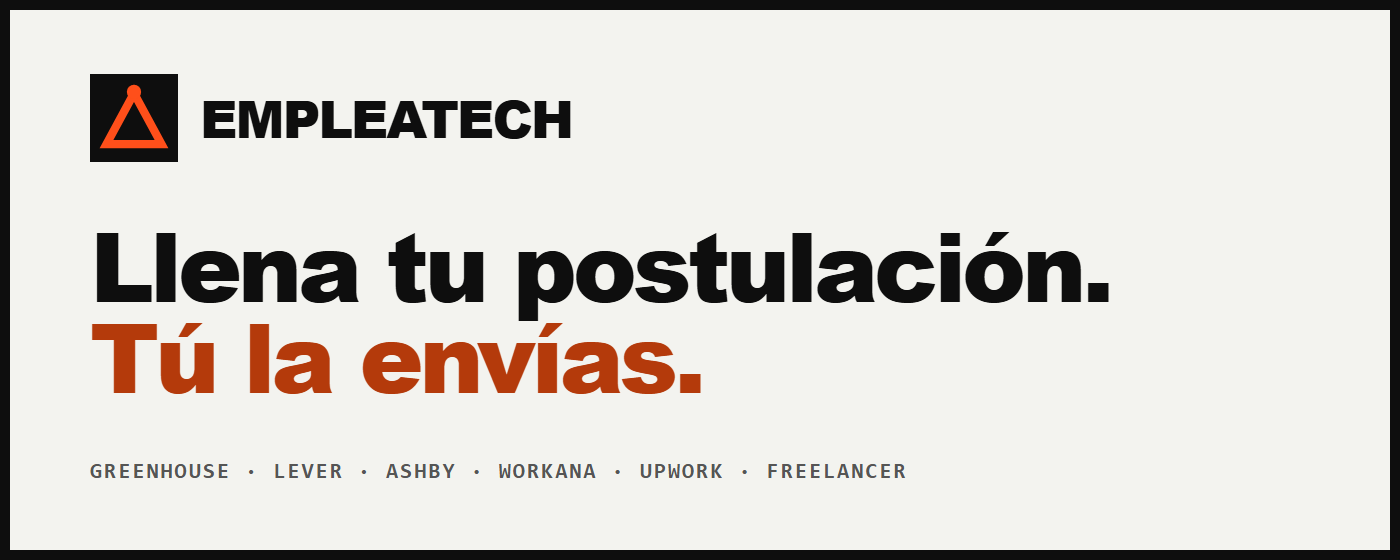
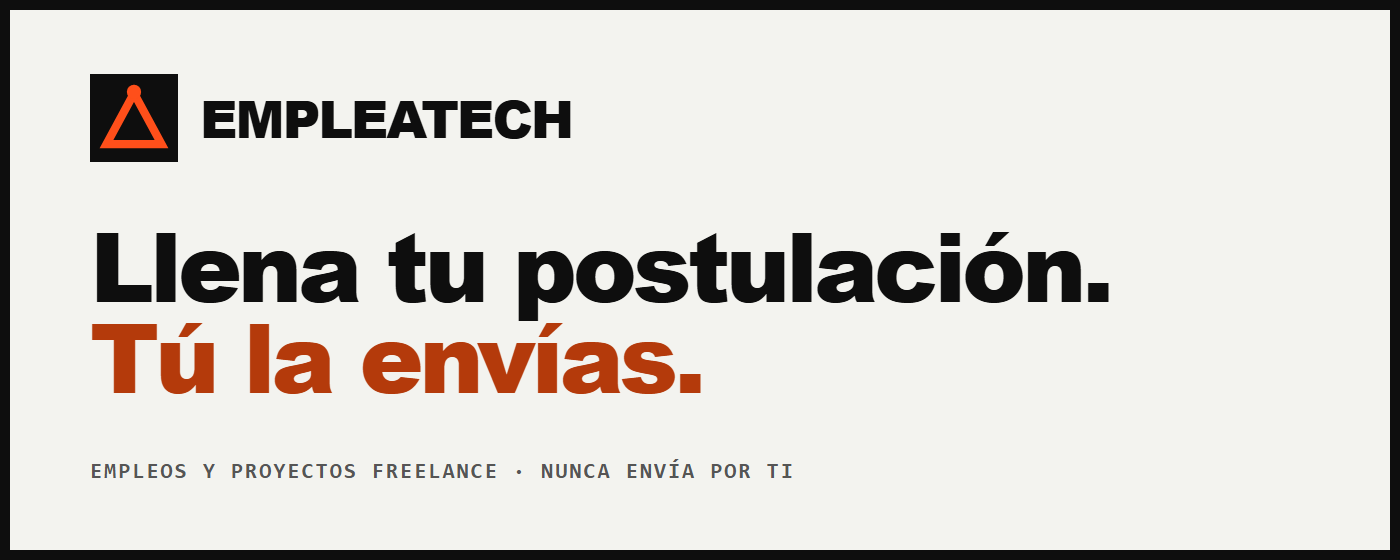
Ficha de la tienda sin lista de plataformas (rechazo por palabras clave): descripción, mosaico y marquesina

Changed region(s): [[0.0614, 0.8196, 0.645, 0.85]]

diff --git a/docs/TIENDA_CHROME.md b/docs/TIENDA_CHROME.md
@@ -16,14 +16,15 @@ listo para copiar. Cuenta: de **no comerciante** (la extensión es gratis, sin a
 - **Resumen (máx. 132):** Llena tus formularios de postulación y tus propuestas freelance con tu perfil de EmpleaTech. Tú revisas y tú envías.
 - **Categoría:** Productividad → Herramientas.
 - **Idioma:** Español (Latinoamérica).
-- **Descripción:**
+- **Descripción** (sin enumerar plataformas: la primera versión se rechazó por «spam de palabras clave», Yellow Argon,
+  por listar seis nombres de sitios; tampoco van en el mosaico ni en la marquesina):
 
   > EmpleaTech es tu asistente personal de búsqueda de empleo. Esta extensión es su compañera en el navegador: cuando
   > abres el formulario de una vacante, lo llena por ti con tu perfil y deja todo listo para que tú lo revises y lo envíes.
   >
   > Qué hace:
-  > • En formularios de Greenhouse, Lever y Ashby llena tus datos, contesta las preguntas que ya conoce, adjunta tu CV y tu carta para esa vacante y marca en rojo lo que falta.
-  > • En Workana, Upwork y Freelancer.com arma una propuesta para el proyecto que tienes abierto y la pone en su cuadro.
+  > • En los formularios de postulación de las plataformas de reclutamiento compatibles, llena tus datos, contesta las preguntas que ya conoce, adjunta tu CV y tu carta para esa vacante y marca en rojo lo que falta.
+  > • En las plataformas de proyectos freelance compatibles, arma una propuesta para el proyecto que tienes abierto y la pone en su cuadro.
   > • Cuando envías, registra la postulación en tu seguimiento y aprende tus respuestas nuevas para la próxima vez.
   >
   > Qué no hace:
@@ -34,7 +35,8 @@ listo para copiar. Cuenta: de **no comerciante** (la extensión es gratis, sin a
   > Necesitas una cuenta de EmpleaTech (https://empleatech.site). Para conectarla: en EmpleaTech abre Mi CV → Autollenado y pulsa «Conectar la extensión».
 
 - **Icono:** `extension/iconos/icono-128.png`.
-- **Capturas (1280×800):** `extension/tienda/captura-1-formulario.png`, `captura-2-propuesta.png`, `captura-3-conectar.png`.
+- **Capturas (1280×800):** `extension/tienda/captura-1-formulario.png` y `captura-2-propuesta.png`. (La 3, de la app,
+  muestra un texto que nombra plataformas: no se sube, para no arriesgar otro rechazo por palabras clave.)
 - **Mosaico promocional pequeño (440×280):** `extension/tienda/mosaico-440x280.png`.
 - **Sitio web oficial:** https://empleatech.site
 - **URL de asistencia:** https://empleatech.site/privacidad
